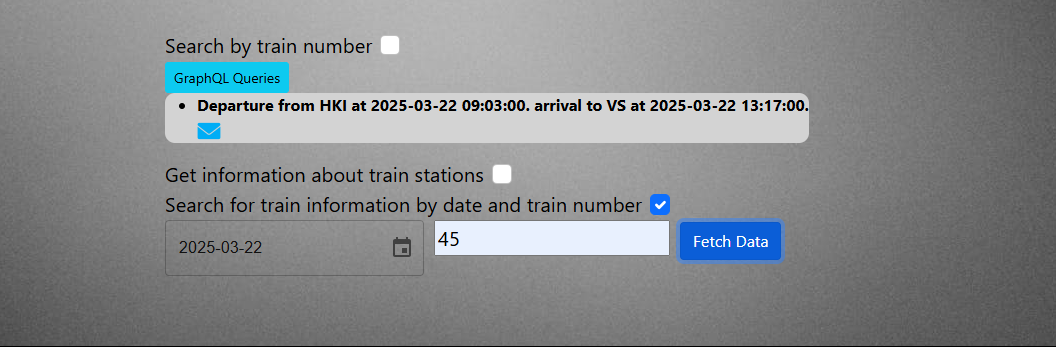
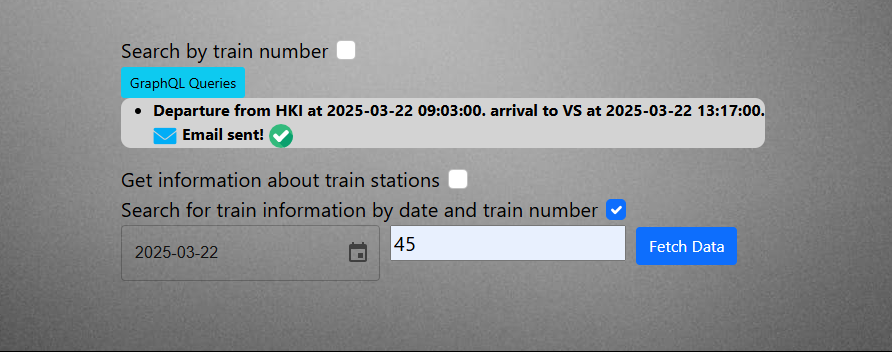
confirmation message added to email feature

diff --git a/src/pages/train.js b/src/pages/train.js
@@ -9,6 +9,7 @@ import ByTrainNumber from "./byTrainNumber";
 import LanguageOptions from "./languageOptions";
 import ConvertText from "./convertText";
 import emailIcon from "../icons/email24px.png"
+import check from "../icons/checked 24px.png"
 import { createClient } from "smtpexpress"
 import axios from "axios";
 
@@ -169,13 +170,27 @@ function Train() {
             })
     }
     async function sendMail() {
+        var notice = document.createElement("span")
+        var success=document.createElement("img")
+        notice.textContent="Email sent!"
+        notice.setAttribute("class","notice")
+        notice.id="notice"
+        success.id="success"
+        success.src=check
+        document.getElementById("list").appendChild(notice)
+        document.getElementById("list").appendChild(success)
+        var mailAddress=prompt("Enter email address")
+        var apk=localStorage.getItem("apk")
+        console.log(apk)
+        
         try {
+           
             var msg = document.getElementById("list").innerText
             const api = axios.create({
                 baseURL: "https://api.smtpexpress.com/",
                 headers: {
                   "Content-Type": "application/json",
-                  Authorization: "Bearer",
+                  Authorization: `Bearer ${apk}`,
                 },
               });
               const body = {
@@ -186,7 +201,7 @@ function Train() {
                   email: "traffic-helper-b1134d@smtpexpress.email",
                 },
                 recipients: {
-                  email: "htuomela@gmail.com",
+                  email: mailAddress,
                 },
               };
               const response = await api.post("send", body);
@@ -197,6 +212,14 @@ function Train() {
         } catch (error) {
             console.error("Error sending email:", error);
           }
+          const timeOut=setTimeout(clearEmailVertification,5000)
+    }
+
+    function clearEmailVertification() {
+        const notice = document.getElementById("notice")
+        const success = document.getElementById("success")
+        notice.remove()
+        success.remove()
     }
 
     

diff --git a/src/App.css b/src/App.css
@@ -127,6 +127,10 @@
 .busInput {
   margin-left: 10px;
 }
-
+.notice {
+  white-space: nowrap;
+  margin-left: 5px;
+  margin-right: 5px;
+}
 
 

diff --git a/README.md b/README.md
@@ -32,7 +32,9 @@ DATA SEARCH FROM TRAINS
 
 User can search for any VR train information using train number and date.
 
-An example view where the user has searched for valid train passenger bulletins and the departure and arrival times and route of train 45 on 22.3.25. The date is selected from the MUI DatePicker component and the train number is entered in the input field. The API call requires a date in the format YYYY-DD-MM. The selected date is formatted in the required format, using the format method of the DayJS library. The user can also send train information to the email address of their choice by clicking on the blue envelope icon. The email feature is made with the SMTP express library
+An example view where the user has searched for valid train passenger bulletins and the departure and arrival times and route of train 45 on 22.3.25. The date is selected from the MUI DatePicker component and the train number is entered in the input field. The API call requires a date in the format YYYY-DD-MM. The selected date is formatted in the required format, using the format method of the DayJS library. The user can also send train information to the email address of their choice by clicking on the blue envelope icon. The email feature is made with the SMTP express library.
+
+The user will see a confirmation that the email has been sent. The confirmation will include the text "Email sent!" and a success icon. The confirmation message is automatically deleted after 5 seconds using the JavaScript setTimeout method.
 
 ![alt text](src/images/dataoftrain-1.png)
 
